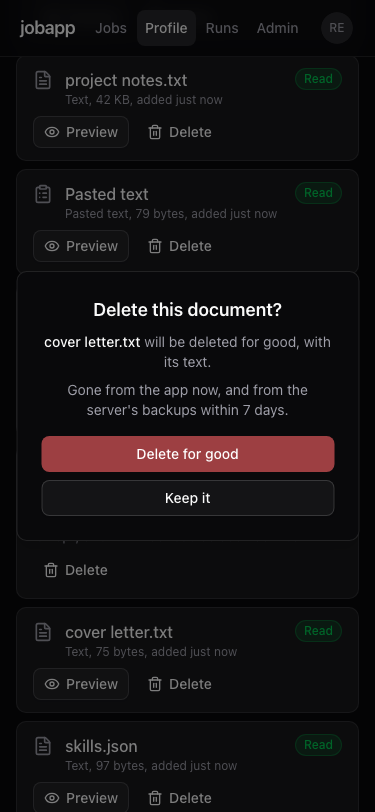
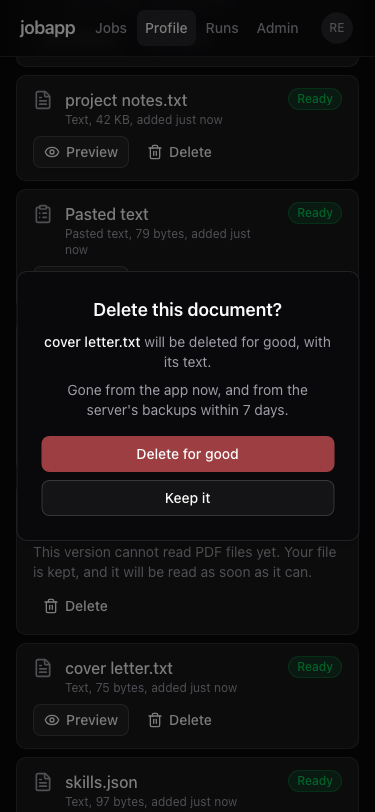
feat(ingestion): a document is Ready, or To check while its secret warning is open (issue #44)
A document whose text is there shows Ready; one whose text looks like it holds a
password or a key shows To check until the user keeps it, since no run reads it
before. The drop zone says the LinkedIn export is the ZIP. Evidence and
measurements taken again on a fresh stack with the final page.

diff --git a/web/e2e/ingestion-g1.spec.ts b/web/e2e/ingestion-g1.spec.ts
@@ -373,8 +373,8 @@ test("text files are read at once: chosen by keyboard, then dropped", async () =
     file("dossier.md", DOSSIER, "text/markdown"),
     file("skills.json", SKILLS, "application/json"),
   ]);
-  await expect(row(page, "dossier.md")).toContainText("Read");
-  await expect(row(page, "skills.json")).toContainText("Read");
+  await expect(row(page, "dossier.md")).toContainText("Ready");
+  await expect(row(page, "skills.json")).toContainText("Ready");
   await expect(row(page, "dossier.md")).toContainText(/Text, \d+ bytes, added/);
   // The result is announced politely to a screen reader.
   await expect(
@@ -401,7 +401,7 @@ test("text files are read at once: chosen by keyboard, then dropped", async () =
           }),
         );
     }, LETTER);
-  await expect(row(page, "cover letter.txt")).toContainText("Read");
+  await expect(row(page, "cover letter.txt")).toContainText("Ready");
   await expect(documents(page).getByRole("listitem")).toHaveCount(3);
 });
 
@@ -454,7 +454,7 @@ test("a pasted text becomes a document", async () => {
   await addText.click();
   await expect(page.getByText("Text added.", { exact: true })).toBeVisible();
   await expect(box).toHaveValue("");
-  await expect(row(page, "Pasted text")).toContainText("Read");
+  await expect(row(page, "Pasted text")).toContainText("Ready");
   await expect(row(page, "Pasted text")).toContainText(
     /Pasted text, \d+ bytes/,
   );
@@ -472,7 +472,7 @@ test("a pasted text becomes a document", async () => {
 
 test("the preview shows the text kept, a part at a time", async () => {
   await add(page, file("project notes.txt", LONG, "text/plain"));
-  await expect(row(page, "project notes.txt")).toContainText("Read");
+  await expect(row(page, "project notes.txt")).toContainText("Ready");
   await row(page, "dossier.md")
     .getByRole("button", { name: "Preview dossier.md" })
     .click();
@@ -537,13 +537,15 @@ test("a text that looks like it holds a key asks to be checked, kept or deleted"
         "deployment notes.txt added. It looks like it holds a password or a key",
     }),
   ).toHaveCount(1);
+  // Its text is there, but it is not ready for an agent until the user has looked.
+  await expect(notes).toContainText("To check");
   await shots(page, "03-documents");
   await warning.getByRole("button", { name: "It is fine, keep it" }).click();
   await expect(warning).toHaveCount(0);
-  await expect(notes).toContainText("Read");
+  await expect(notes).toContainText("Ready");
   // Kept after a reload.
   await page.reload();
-  await expect(row(page, "deployment notes.txt")).toContainText("Read");
+  await expect(row(page, "deployment notes.txt")).toContainText("Ready");
   await expect(
     page.getByRole("group", { name: /Possible secret/ }),
   ).toHaveCount(0);
@@ -638,7 +640,7 @@ test("deleting asks first, says what it means, and the document is gone for good
   // The list as it was left, after a reload.
   await page.reload();
   await expect(documents(page).getByRole("listitem")).toHaveCount(after.length);
-  await expect(row(page, "dossier.md")).toContainText("Read");
+  await expect(row(page, "dossier.md")).toContainText("Ready");
   await expect(row(page, "CV Robin Example.pdf")).toContainText("Waiting");
   await expect(
     page.getByText(/^\d+ documents, .+ of 100 MB used$/),

diff --git a/web/src/features/ingestion/step-documents.test.tsx b/web/src/features/ingestion/step-documents.test.tsx
@@ -71,7 +71,7 @@ describe("documents: the list", () => {
     expect(rows()).toHaveLength(2);
     expect(row("dossier.md").getByText(/Text, 34 KB, added/)).toBeVisible();
     expect(row("dossier.md").getByText("3 hours ago")).toBeVisible();
-    expect(row("dossier.md").getByText("Read")).toBeVisible();
+    expect(row("dossier.md").getByText("Ready")).toBeVisible();
     expect(
       row("Pasted text").getByText(/Pasted text, 812 bytes/),
     ).toBeVisible();
@@ -167,7 +167,7 @@ describe("documents: adding files", () => {
     const { user, state, input } = await open();
     await user.upload(input, text("# Robin Example\n", "dossier.md"));
     await listed("dossier.md");
-    expect(row("dossier.md").getByText("Read")).toBeVisible();
+    expect(row("dossier.md").getByText("Ready")).toBeVisible();
     expect(state.uploads).toHaveLength(1);
     expect(state.uploads[0]?.filename).toBe("UTF-8''dossier.md");
     // The file left the queue, and the result was announced politely.
@@ -413,7 +413,7 @@ describe("documents: pasting a text", () => {
     expect(state.pastes).toEqual([
       "Robin Example\nApplied AI engineer in Nantes",
     ]);
-    expect(row("Pasted text").getByText("Read")).toBeVisible();
+    expect(row("Pasted text").getByText("Ready")).toBeVisible();
   });
 
   it("counts an emoji as one character, as the server does", async () => {
@@ -527,6 +527,8 @@ describe("documents: the secret warning", () => {
     expect(
       within(warning).getByText(/No agent reads this document until you say/),
     ).toBeVisible();
+    // Not ready for an agent while the user has not looked.
+    expect(row("env notes.txt").getByText("To check")).toBeVisible();
     await user.click(
       within(warning).getByRole("button", { name: "It is fine, keep it" }),
     );
@@ -536,7 +538,7 @@ describe("documents: the secret warning", () => {
       ).toBeNull();
     });
     expect(state.items[0]?.secret_confirmed_at).not.toBeNull();
-    expect(row("env notes.txt").getByText("Read")).toBeVisible();
+    expect(row("env notes.txt").getByText("Ready")).toBeVisible();
   });
 
   it("is gone for a document already confirmed", async () => {

diff --git a/web/src/features/ingestion/labels.test.ts b/web/src/features/ingestion/labels.test.ts
@@ -34,8 +34,26 @@ describe("sizeLabel", () => {
 });
 
 describe("statusView", () => {
-  it("a document that was read is simply read", () => {
-    expect(statusView(fakeDocument())).toEqual({ label: "Read", tone: "done" });
+  it("a document whose text is there is ready", () => {
+    expect(statusView(fakeDocument())).toEqual({
+      label: "Ready",
+      tone: "done",
+    });
+    expect(
+      statusView(
+        fakeDocument({
+          secret_warning: true,
+          secret_confirmed_at: "2026-10-10T10:00:00Z",
+        }),
+      ),
+    ).toEqual({ label: "Ready", tone: "done" });
+  });
+
+  it("a document the user still has to look at is not ready yet", () => {
+    expect(statusView(fakeDocument({ secret_warning: true }))).toEqual({
+      label: "To check",
+      tone: "waiting",
+    });
   });
 
   it("a file a parser is working on is being read", () => {

diff --git a/web/src/features/ingestion/labels.ts b/web/src/features/ingestion/labels.ts
@@ -45,7 +45,10 @@ const NOT_READ_YET: Record<IngestionDocument["kind"], string> = {
 export function statusView(document: IngestionDocument): StatusView {
   switch (document.status) {
     case "done":
-      return { label: "Read", tone: "done" };
+      // Its text is there. An agent may read it, unless the user still has to look at it.
+      return needsConfirmation(document)
+        ? { label: "To check", tone: "waiting" }
+        : { label: "Ready", tone: "done" };
     case "pending":
       return document.readable
         ? { label: "Being read", tone: "working" }

diff --git a/web/src/features/ingestion/add-files.tsx b/web/src/features/ingestion/add-files.tsx
@@ -83,8 +83,8 @@ export function AddFiles({
           Drop files here, or choose them
         </h3>
         <p id={hintId} className="max-w-prose text-sm text-muted-foreground">
-          A CV, a cover letter, notes on your projects, a LinkedIn export. PDF,
-          Word, text, Markdown, JSON, CSV, PNG or JPEG, up to{" "}
+          A CV, a cover letter, notes on your projects, your LinkedIn export
+          (the ZIP). PDF, Word, text, Markdown, JSON, CSV, PNG or JPEG, up to{" "}
           {megabytes(limits.file_bytes)} MB each.
         </p>
         <input

diff --git a/tasks/ingestion/todo.md b/tasks/ingestion/todo.md
@@ -570,7 +570,7 @@ At most three tasks at a time. The tasks of one group run in parallel and touch 
 ## Measurements
 Each task writes its figures here, in its own paragraph, with the date and the machine.
 - **G0 (2026-10-10, Mac arm64):** image path: one tool result may carry at most about 390 kB of image bytes before the SDK's 1 MiB reader fails (a 303,202 byte image is a line of 808,722 characters); an image counts 1,600 tokens against `MAX_MCP_OUTPUT_TOKENS`; a text result of 49,000 characters stays inline and one of 120,000 is moved to a file. Citation rules: 108 examples, 108 as stated. Seccomp: the deny list installs and holds on Linux arm64 (Docker, kernel 6.10.14, Python 3.12.15, uid 10002, no capability).
-- **G1 (2026-10-11, Mac arm64, Docker Desktop, the api image under its 512 MiB limit, through Caddy):** A16 holds. Two uploads of 20 MiB at once (`web/e2e/ingestion-g1.spec.ts`, the api's cgroup read every 100 ms): 144 MiB before, 198 MiB at the highest sample (a rise of 53 MiB, about 27 MiB per upload: the one buffer of each and its growth margin), 200 MiB as the cgroup's peak since the container started, the whole journey included (39 percent of the limit), no OOM kill, 122 MiB afterwards; both stored in 0.8 s. Idle, the api is at 116 MiB. Three runs gave rises of 45, 72 and 53 MiB, the 72 before the COPY writer flushed each piece. Inside the process: one upload of 20 MiB read in 64 KiB chunks allocates 22.6 MiB of Python memory at its highest point (tracemalloc: the buffer and its 12.5 percent growth margin), a 20 MiB text of 4 byte characters 32.3 MiB. Sending 20 MiB to Postgres three times on one connection, in the api image: 0 MiB kept by the process with the COPY that flushes each 128 KiB piece, 2.6 MiB with psycopg's default writer, 40.4 MiB as a statement parameter (libpq keeps its send buffer for the life of the connection). The db container's cgroup peaked at 504 MiB of 768 over three journeys on one volume, of which 36 MiB anonymous, the rest page cache and shared buffers. A19 holds: Caddy gives `POST /api/ingestion/documents` 20 MiB and every other route, method and spelling 10 MiB, the route being matched by an expression on the method and the decoded path (the `path` and `path_regexp` matchers clean the path first: `/api/ingestion//documents`, a 404 for the api, would have had the larger limit). Figures: `tasks/evidence/ingestion-g1/memory.json`.
+- **G1 (2026-10-11, Mac arm64, Docker Desktop, the api image under its 512 MiB limit, through Caddy):** A16 holds. Two uploads of 20 MiB at once (`web/e2e/ingestion-g1.spec.ts`, the api's cgroup read every 100 ms): 142 MiB before, 198 MiB at the highest sample (a rise of 55 MiB, about 28 MiB per upload: the one buffer of each and its growth margin), 199 MiB as the cgroup's peak since the container started, the whole journey included (39 percent of the limit), no OOM kill, 122 MiB afterwards; both stored in 1.6 s. Idle, the api is at 116 MiB. Four runs gave rises of 45, 72, 53 and 55 MiB, the 72 before the COPY writer flushed each piece. Inside the process: one upload of 20 MiB read in 64 KiB chunks allocates 22.6 MiB of Python memory at its highest point (tracemalloc: the buffer and its 12.5 percent growth margin), a 20 MiB text of 4 byte characters 32.3 MiB. Sending 20 MiB to Postgres three times on one connection, in the api image: 0 MiB kept by the process with the COPY that flushes each 128 KiB piece, 2.6 MiB with psycopg's default writer, 40.4 MiB as a statement parameter (libpq keeps its send buffer for the life of the connection). The db container's cgroup peaked at 441 MiB of 768 in one journey on a fresh volume, of which 36 MiB anonymous, the rest page cache and shared buffers. A19 holds: Caddy gives `POST /api/ingestion/documents` 20 MiB and every other route, method and spelling 10 MiB, the route being matched by an expression on the method and the decoded path (the `path` and `path_regexp` matchers clean the path first: `/api/ingestion//documents`, a 404 for the api, would have had the larger limit). Figures: `tasks/evidence/ingestion-g1/memory.json`.
 
 ## Checkpoint G
 **Issue:** #61.
